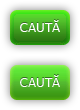
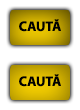
Uptate button style

diff --git a/themes/star_wars_2017/library/css/default.css b/themes/star_wars_2017/library/css/default.css
@@ -409,7 +409,7 @@ img.profile-avatar {
 .actions a, a.button, button {
 	background : transparent url(../images/buttons.png) left top no-repeat;
 	border : 0;
-	color : #ffffff;
+	color : #000000;
 	display : inline-block;
 	//float : left;
 	height : 35px;
